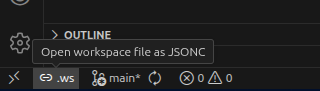
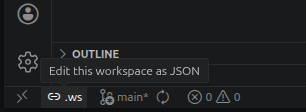
Simplified: JSONC link not required

diff --git a/statusBar.js b/statusBar.js
@@ -1,67 +1,28 @@
 'use strict';
 
 const vscode = require('vscode');
-const fs = require('fs');
-const path = require('path');
 
 class StatusBarManager {
     /** @param {import('vscode').ExtensionContext} context */
     constructor(context) {
-        this._context = context;
-
         this._statusBarItem = vscode.window.createStatusBarItem(
             vscode.StatusBarAlignment.Left,
-            Number.MAX_SAFE_INTEGER
+            Number.MAX_SAFE_INTEGER,
         );
         this._statusBarItem.text = '$(link) .ws';
-        this._statusBarItem.tooltip = 'Open workspace file as JSONC';
-        this._statusBarItem.command = 'ws-edit.openAsJsonc';
+        this._statusBarItem.tooltip = 'Edit this workspace as JSON';
+        this._statusBarItem.command = 'ws-edit.open';
 
-        this._closeDisposable = null;
-        this._jsoncPath = null;
-        this._symlinkTarget = null;
-
-        const commandDisposable = vscode.commands.registerCommand(
-            'ws-edit.openAsJsonc',
-            () => this.openAsJsonc()
-        );
+        const commandDisposable = vscode.commands.registerCommand('ws-edit.open', () => this.openAsJsonc());
 
         context.subscriptions.push(this._statusBarItem, commandDisposable);
     }
 
     initialize() {
-        const wsFile = vscode.workspace.workspaceFile;
-        if (!wsFile) {
+        if (!vscode.workspace.workspaceFile) {
             this._statusBarItem.hide();
             return;
         }
-
-        const wsPath = wsFile.fsPath;
-        const jsoncPath = wsPath + '.jsonc';
-
-        const alreadyOpen = vscode.window.tabGroups.all.some(group =>
-            group.tabs.some(tab => {
-                const input = tab.input;
-                return input instanceof vscode.TabInputText &&
-                    input.uri.fsPath === jsoncPath;
-            })
-        );
-
-        if (alreadyOpen) {
-            this._statusBarItem.hide();
-            this._watchForClose(jsoncPath, path.basename(wsPath));
-            return;
-        }
-
-        if (this._exists(jsoncPath)) {
-            vscode.workspace.openTextDocument(jsoncPath).then(doc => {
-                vscode.window.showTextDocument(doc);
-                this._statusBarItem.hide();
-                this._watchForClose(jsoncPath, path.basename(wsPath));
-            });
-            return;
-        }
-
         this._statusBarItem.show();
     }
 
@@ -71,120 +32,11 @@ class StatusBarManager {
             return;
         }
 
-        const wsPath = wsFile.fsPath;
-        const jsoncPath = wsPath + '.jsonc';
-        const symlinkTarget = path.basename(wsPath);
-
-        let createdSymlink = false;
-
-        if (!this._exists(jsoncPath)) {
-            try {
-                fs.symlinkSync(symlinkTarget, jsoncPath, 'file');
-                createdSymlink = true;
-            } catch (err) {
-                vscode.window.showErrorMessage(
-                    `WS Edit: Could not create symlink at "${jsoncPath}": ${err.message}. ` +
-                    'Please file an issue at github.com/cyberclast/ws-edit/issues'
-                );
-                return;
-            }
-        }
-
         try {
-            const doc = await vscode.workspace.openTextDocument(jsoncPath);
+            const doc = await vscode.workspace.openTextDocument(wsFile);
             await vscode.window.showTextDocument(doc);
         } catch (err) {
-            if (createdSymlink) {
-                this._deleteFile(jsoncPath, symlinkTarget);
-            }
-            vscode.window.showErrorMessage(
-                `WS Edit: Could not open "${jsoncPath}": ${err.message}`
-            );
-            return;
-        }
-
-        this._statusBarItem.hide();
-        this._watchForClose(jsoncPath, symlinkTarget);
-    }
-
-    /**
-     * @param {string} jsoncPath
-     * @param {string} symlinkTarget
-     */
-    _watchForClose(jsoncPath, symlinkTarget) {
-        this._jsoncPath = jsoncPath;
-        this._symlinkTarget = symlinkTarget;
-
-        if (this._closeDisposable) {
-            this._closeDisposable.dispose();
-            this._closeDisposable = null;
-        }
-
-        // VS Code may resolve the symlink, so match against both the symlink
-        // path and the real path (the .code-workspace file).
-        let resolvedPath = jsoncPath;
-        try { resolvedPath = fs.realpathSync(jsoncPath); } catch { /* ignore */ }
-        const pathsToMatch = new Set([jsoncPath, resolvedPath]);
-
-        // onDidCloseTextDocument is unreliable (VS Code keeps documents in
-        // memory after tab close). Use the Tab API instead, which fires as
-        // soon as the tab is removed from the UI.
-        this._closeDisposable = vscode.window.tabGroups.onDidChangeTabs(e => {
-            const closed = e.closed.some(tab => {
-                const input = tab.input;
-                return input instanceof vscode.TabInputText &&
-                    pathsToMatch.has(input.uri.fsPath);
-            });
-            if (closed) {
-                this._deleteFile(jsoncPath, symlinkTarget);
-                this._statusBarItem.show();
-                if (this._closeDisposable) {
-                    this._closeDisposable.dispose();
-                    this._closeDisposable = null;
-                }
-            }
-        });
-    }
-
-    /**
-     * @param {string} p
-     * @returns {boolean}
-     */
-    _exists(p) {
-        try {
-            fs.lstatSync(p);
-            return true;
-        } catch {
-            return false;
-        }
-    }
-
-    /**
-     * @param {string} p
-     * @param {string} expectedTarget
-     */
-    _deleteFile(p, expectedTarget) {
-        try {
-            const target = fs.readlinkSync(p);
-            if (target === expectedTarget) {
-                fs.unlinkSync(p);
-            }
-        } catch (err) {
-            console.log(`ws-edit: could not delete "${p}":`, err.message);
-        }
-    }
-
-    dispose() {
-        try {
-            if (this._jsoncPath && this._symlinkTarget) {
-                this._deleteFile(this._jsoncPath, this._symlinkTarget);
-            }
-        } catch {
-            // swallow
-        }
-        if (this._closeDisposable) {
-            this._closeDisposable.dispose();
-            this._closeDisposable = null;
+            vscode.window.showErrorMessage(`WS Edit: Could not open workspace file: ${err.message}`);
         }
     }
 }

diff --git a/extension.js b/extension.js
@@ -19,10 +19,6 @@ function activate(context) {
     );
 }
 
-function deactivate() {
-    if (statusBarManager) {
-        statusBarManager.dispose();
-    }
-}
+function deactivate() {}
 
 module.exports = { activate, deactivate };

diff --git a/README.md b/README.md
@@ -1,35 +1,15 @@
 # WS Edit
 
-A Visual Studio Code extension for editing workspace files directly in the editor.
+A minimal VS Code extension for editing multi-folder workspaces.
 
-Quickly add or remove folders from your workspace without losing track of which ones you use regularly.
+When a saved workspace is open, a `.ws` button appears on the bottom left of the status bar:
 
-## Features
+![Status bar showing the .ws button with tooltip "Open this workspace as JSON"](img/bottom-left-status-bar-button.png)
 
-- **Status Bar Integration**: A `.ws` button appears in the status bar whenever you have a multi-folder workspace open
-- **JSONC Editing**: Opens the workspace file in an editor tab with full syntax highlighting, comment toggling, and schema validation
-- **Live Updates**: Commenting or uncommenting a folder entry (`Ctrl-/`) and saving the file immediately adds or removes it from the workspace
+Click it to open the workspace file in an editor tab — you can comment out folder entries to easily add / remove them from the workspace. VS Code applies the changes on save:
 
-## Usage
-
-When you are working with a multi-folder workspace that has been saved to disk, a `.ws` button appears at the far left of the status bar:
-
-![Status bar showing the .ws button with tooltip "Open workspace file as JSONC"](img/bottom-left-status-bar-button.png)
-
-Click it to open the workspace file in an editor. Comment out individual folder entries to temporarily exclude them from your workspace, then uncomment to bring them back. Changes take effect as soon as you hit save:
-
-![Workspace file open as JSONC showing commented and uncommented folder entries](img/workspace-folders-commented.png)
-
-## Attribution
-
-Developed by **Cyberclast Software Solutions Ltd.**
-
-Website: [https://cyberclast.com](https://cyberclast.com)
+![Workspace file with commented folder entries](img/workspace-folders-commented.png)
 
 ## License
 
-MIT License - See LICENSE file for details
-
-## Support
-
-For issues, feature requests, or contributions, please visit the [GitHub repository](https://github.com/cyberclast/ws-edit).
+MIT — see LICENSE file for details.

diff --git a/CHANGELOG.md b/CHANGELOG.md
@@ -1,5 +1,9 @@
 # Changelog
 
+## [0.2.0] - 2026-03-28
+
+- Simplified: opens the workspace file directly, no symlink required
+
 ## [0.1.0] - 2026-03-21
 
 - Initial release
